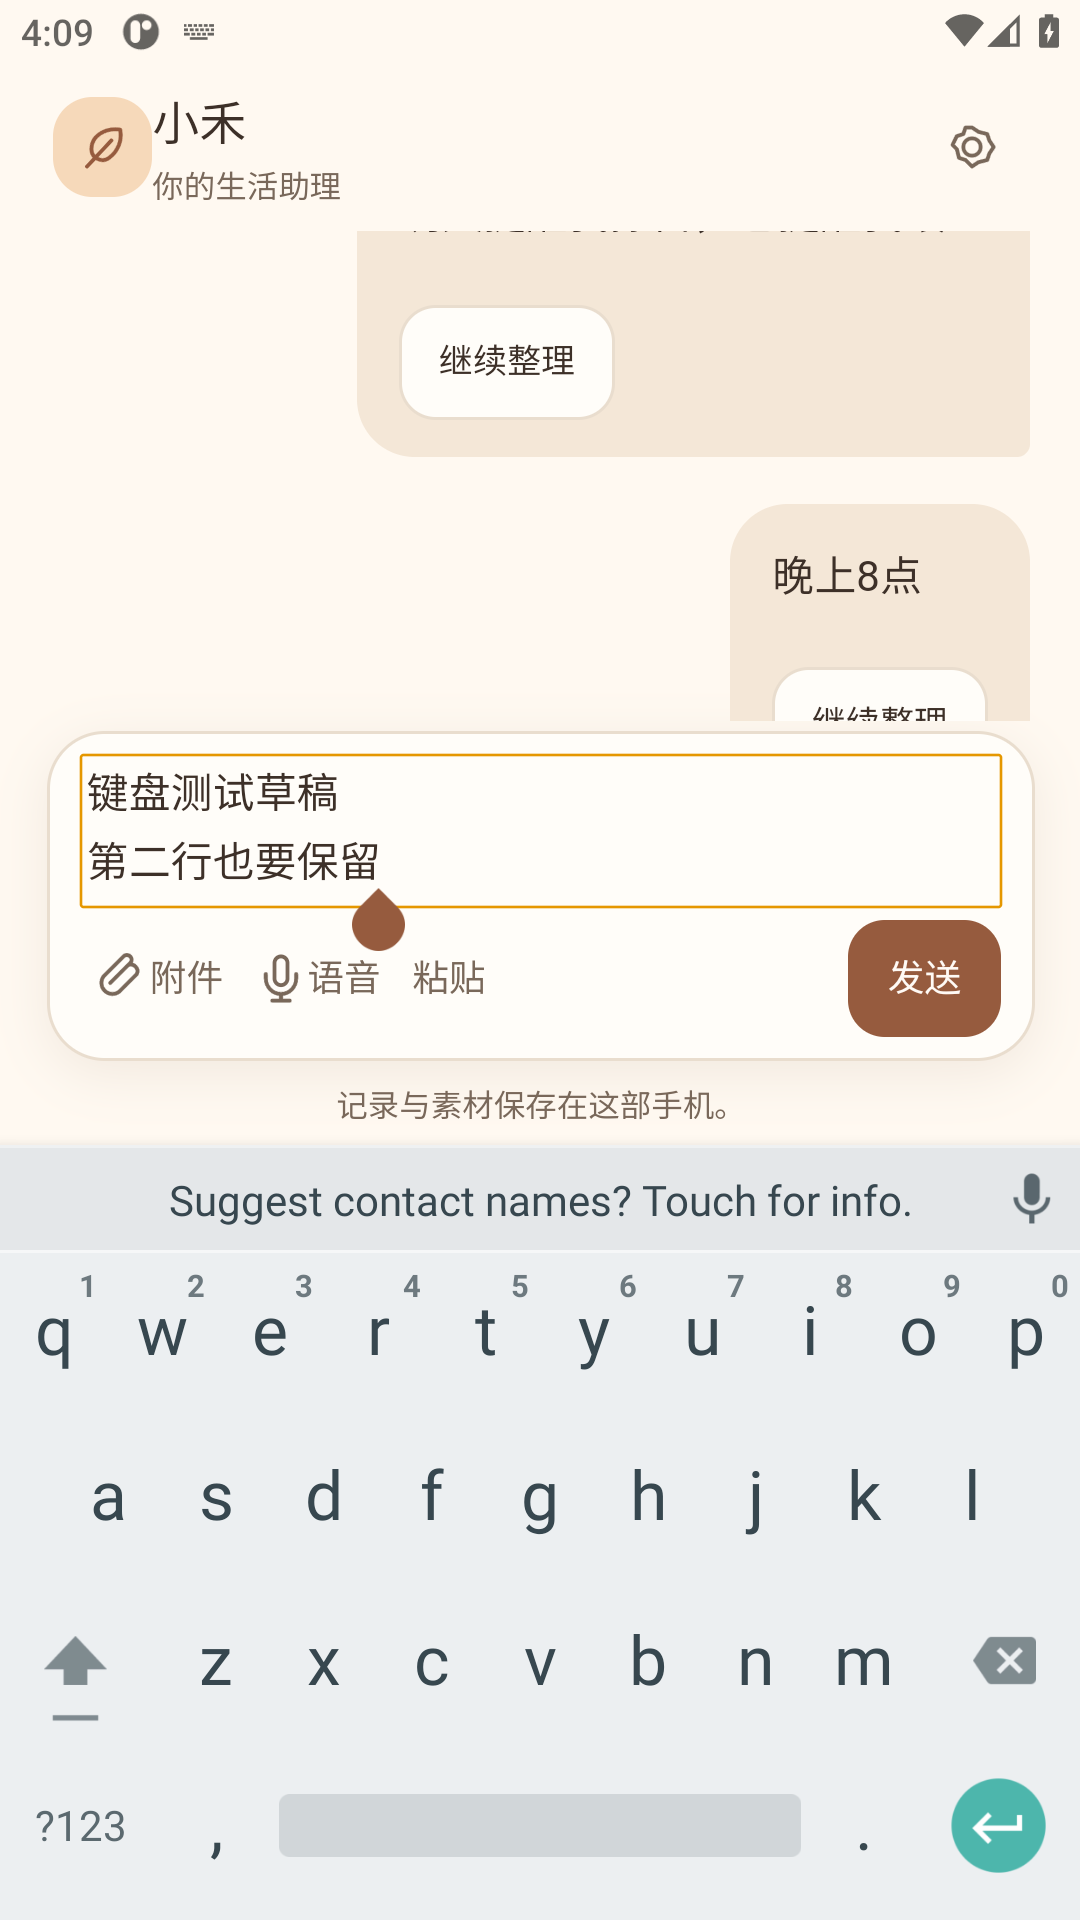
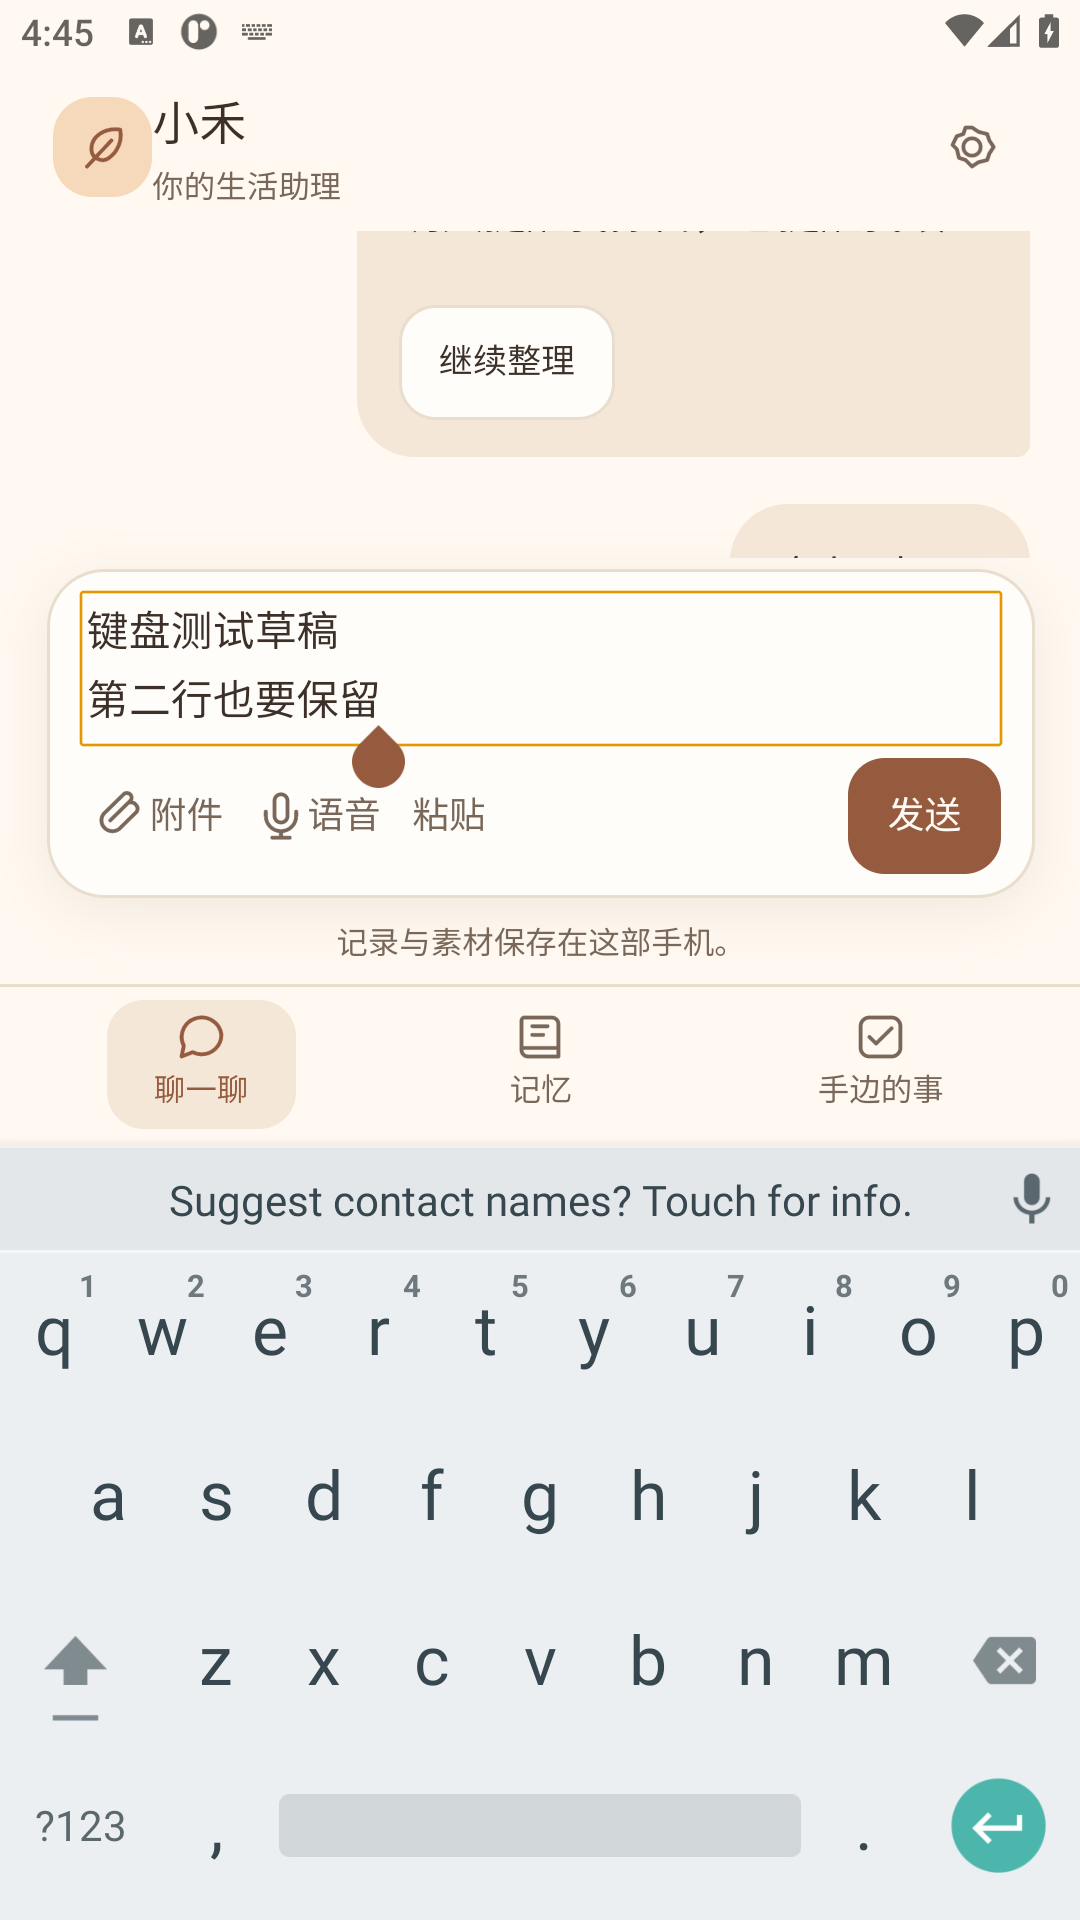
fix(android): restore navigation after closing the keyboard

diff --git a/app/src/main/assets/app.css b/app/src/main/assets/app.css
@@ -13,5 +13,5 @@
 
 /* Keep editing and sending available when the keyboard leaves a short viewport. */
 html,body{height:100%;overflow:hidden}
-.viewport-compact .bottom-nav{display:none}.viewport-compact .app-header{padding-top:8px;padding-bottom:8px}.viewport-compact #composer-wrap{padding-top:4px;padding-bottom:4px}.viewport-compact .composer{padding:8px 12px}
+.viewport-short .bottom-nav{display:none}.viewport-compact .app-header{padding-top:8px;padding-bottom:8px}.viewport-compact #composer-wrap{padding-top:4px;padding-bottom:4px}.viewport-compact .composer{padding:8px 12px}
 .viewport-short .app-header,.viewport-short #progress{display:none}.viewport-short .sheet{max-height:calc(var(--vh) - 8px)}.viewport-short .sheet-header{padding:4px 12px}.viewport-short .sheet-body{padding:8px 14px;max-height:calc(var(--vh) - 64px)}.viewport-short .editor{min-height:70px;max-height:calc(var(--vh) - 120px)}

diff --git a/verification/app/xiaohe/tests/KeyboardViewportSmoke.java b/verification/app/xiaohe/tests/KeyboardViewportSmoke.java
@@ -63,6 +63,7 @@ public final class KeyboardViewportSmoke {
         check("true".equals(ClipboardSmoke.evaluate(test,web,"document.getElementById('message-input').value==="+JSONObject.quote(DRAFT))),"Multiline draft survives repeated IME changes");
       }
       keyboard(test,activity,web,false);JSONObject restored=geometry(test,activity,web,"message-input");stages.put("restored",restored);check(Math.abs(restored.getJSONObject("dom").getDouble("innerHeight")-closed.getJSONObject("dom").getDouble("innerHeight"))<=2,"Closing keyboard restores page height without blank space");
+      check("true".equals(ClipboardSmoke.evaluate(test,web,"document.querySelector('.bottom-nav').getBoundingClientRect().height>0")),"Closing keyboard keeps page navigation available in both orientations");
       ClipboardSmoke.evaluate(test,web,"(()=>{showSettings();const key=document.getElementById('cfg-key');key.value='FAKE_KEY_FOR_KEYBOARD_TEST';key.scrollIntoView({block:'center'});return true;})()");Thread.sleep(150);
       ClipboardSmoke.tap(test,web,"cfg-key");keyboard(test,activity,web,true);JSONObject settings=geometry(test,activity,web,"cfg-key");stages.put("settings",settings);saveEvidence(test,activity,phase,"settings",settings);
       check(settings.getDouble("inputScreenBottom")<=settings.getJSONObject("native").getDouble("safeBottom")+4,"Focused settings input remains above IME: "+settings);
